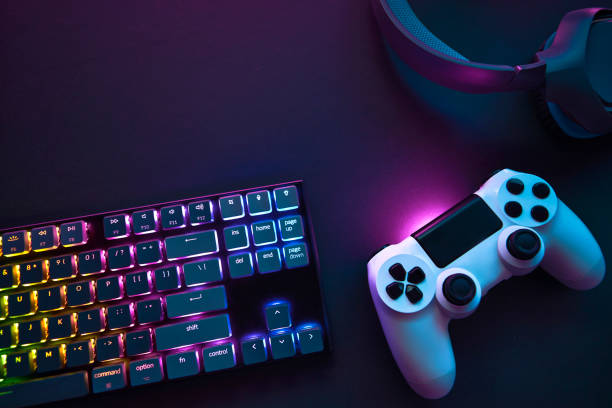
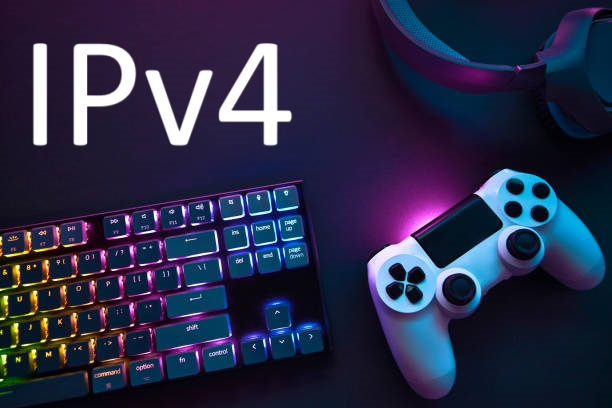
updated og tags and image

diff --git a/index.html b/index.html
@@ -7,10 +7,10 @@
     <title>IPv4 Header Game</title>
     <link rel="icon" type="image/png" href="./favicon.png">
     <meta property='og:title' content='IPv4 Header videogame' />
-    <meta property='og:image' content='./ogImage.png' />
+    <meta property='og:image' content='https://noevazz.github.io/ipv4headers/ogImage.png' />
     <meta property='og:description' content='An online videogame to learn the IPv4 header, drag and drop fields into the IPv4 packet.' />
-    <meta property='og:url' content='//www.example.com/URL of the article' />
-    
+    <meta property='og:url' content='https://noevazz.github.io/ipv4headers/' />
+
     <meta name="viewport" content="width=device-width, initial-scale=1">
     <link rel="stylesheet" href="https://www.w3schools.com/w3css/4/w3.css">
     <link rel="stylesheet" href="https://cdnjs.cloudflare.com/ajax/libs/font-awesome/5.15.4/css/all.min.css">
@@ -150,10 +150,10 @@
             <a href="https://twitter.com/intent/tweet?url=https://tupagina.github.io&text=Check this videogame to learn the IPv4 Header!."
                 target="_blank" rel="noopener noreferrer" class="share-btn"><i class="fab fa-twitter shareIcon"
                     title="Share on X"></i></a>
-            <a href="https://www.facebook.com/sharer/sharer.php?u=https://tupagina.github.io" target="_blank"
+            <a href="https://www.facebook.com/sharer/sharer.php?u=https://noevazz.github.io/ipv4headers/" target="_blank"
                 rel="noopener noreferrer" class="share-btn"><i class="fab fa-facebook shareIcon"
                     title="Share on facebook"></i></a>
-            <a href="https://www.linkedin.com/sharing/share-offsite/?url=https://google.com" target="_blank"
+            <a href="https://www.linkedin.com/sharing/share-offsite/?url=https://noevazz.github.io/ipv4headers/" target="_blank"
                 rel="noopener noreferrer" class="share-btn"><i class="fab fa-linkedin shareIcon"
                     ti'le="Share on linkedin"></i></a>
         </div>
